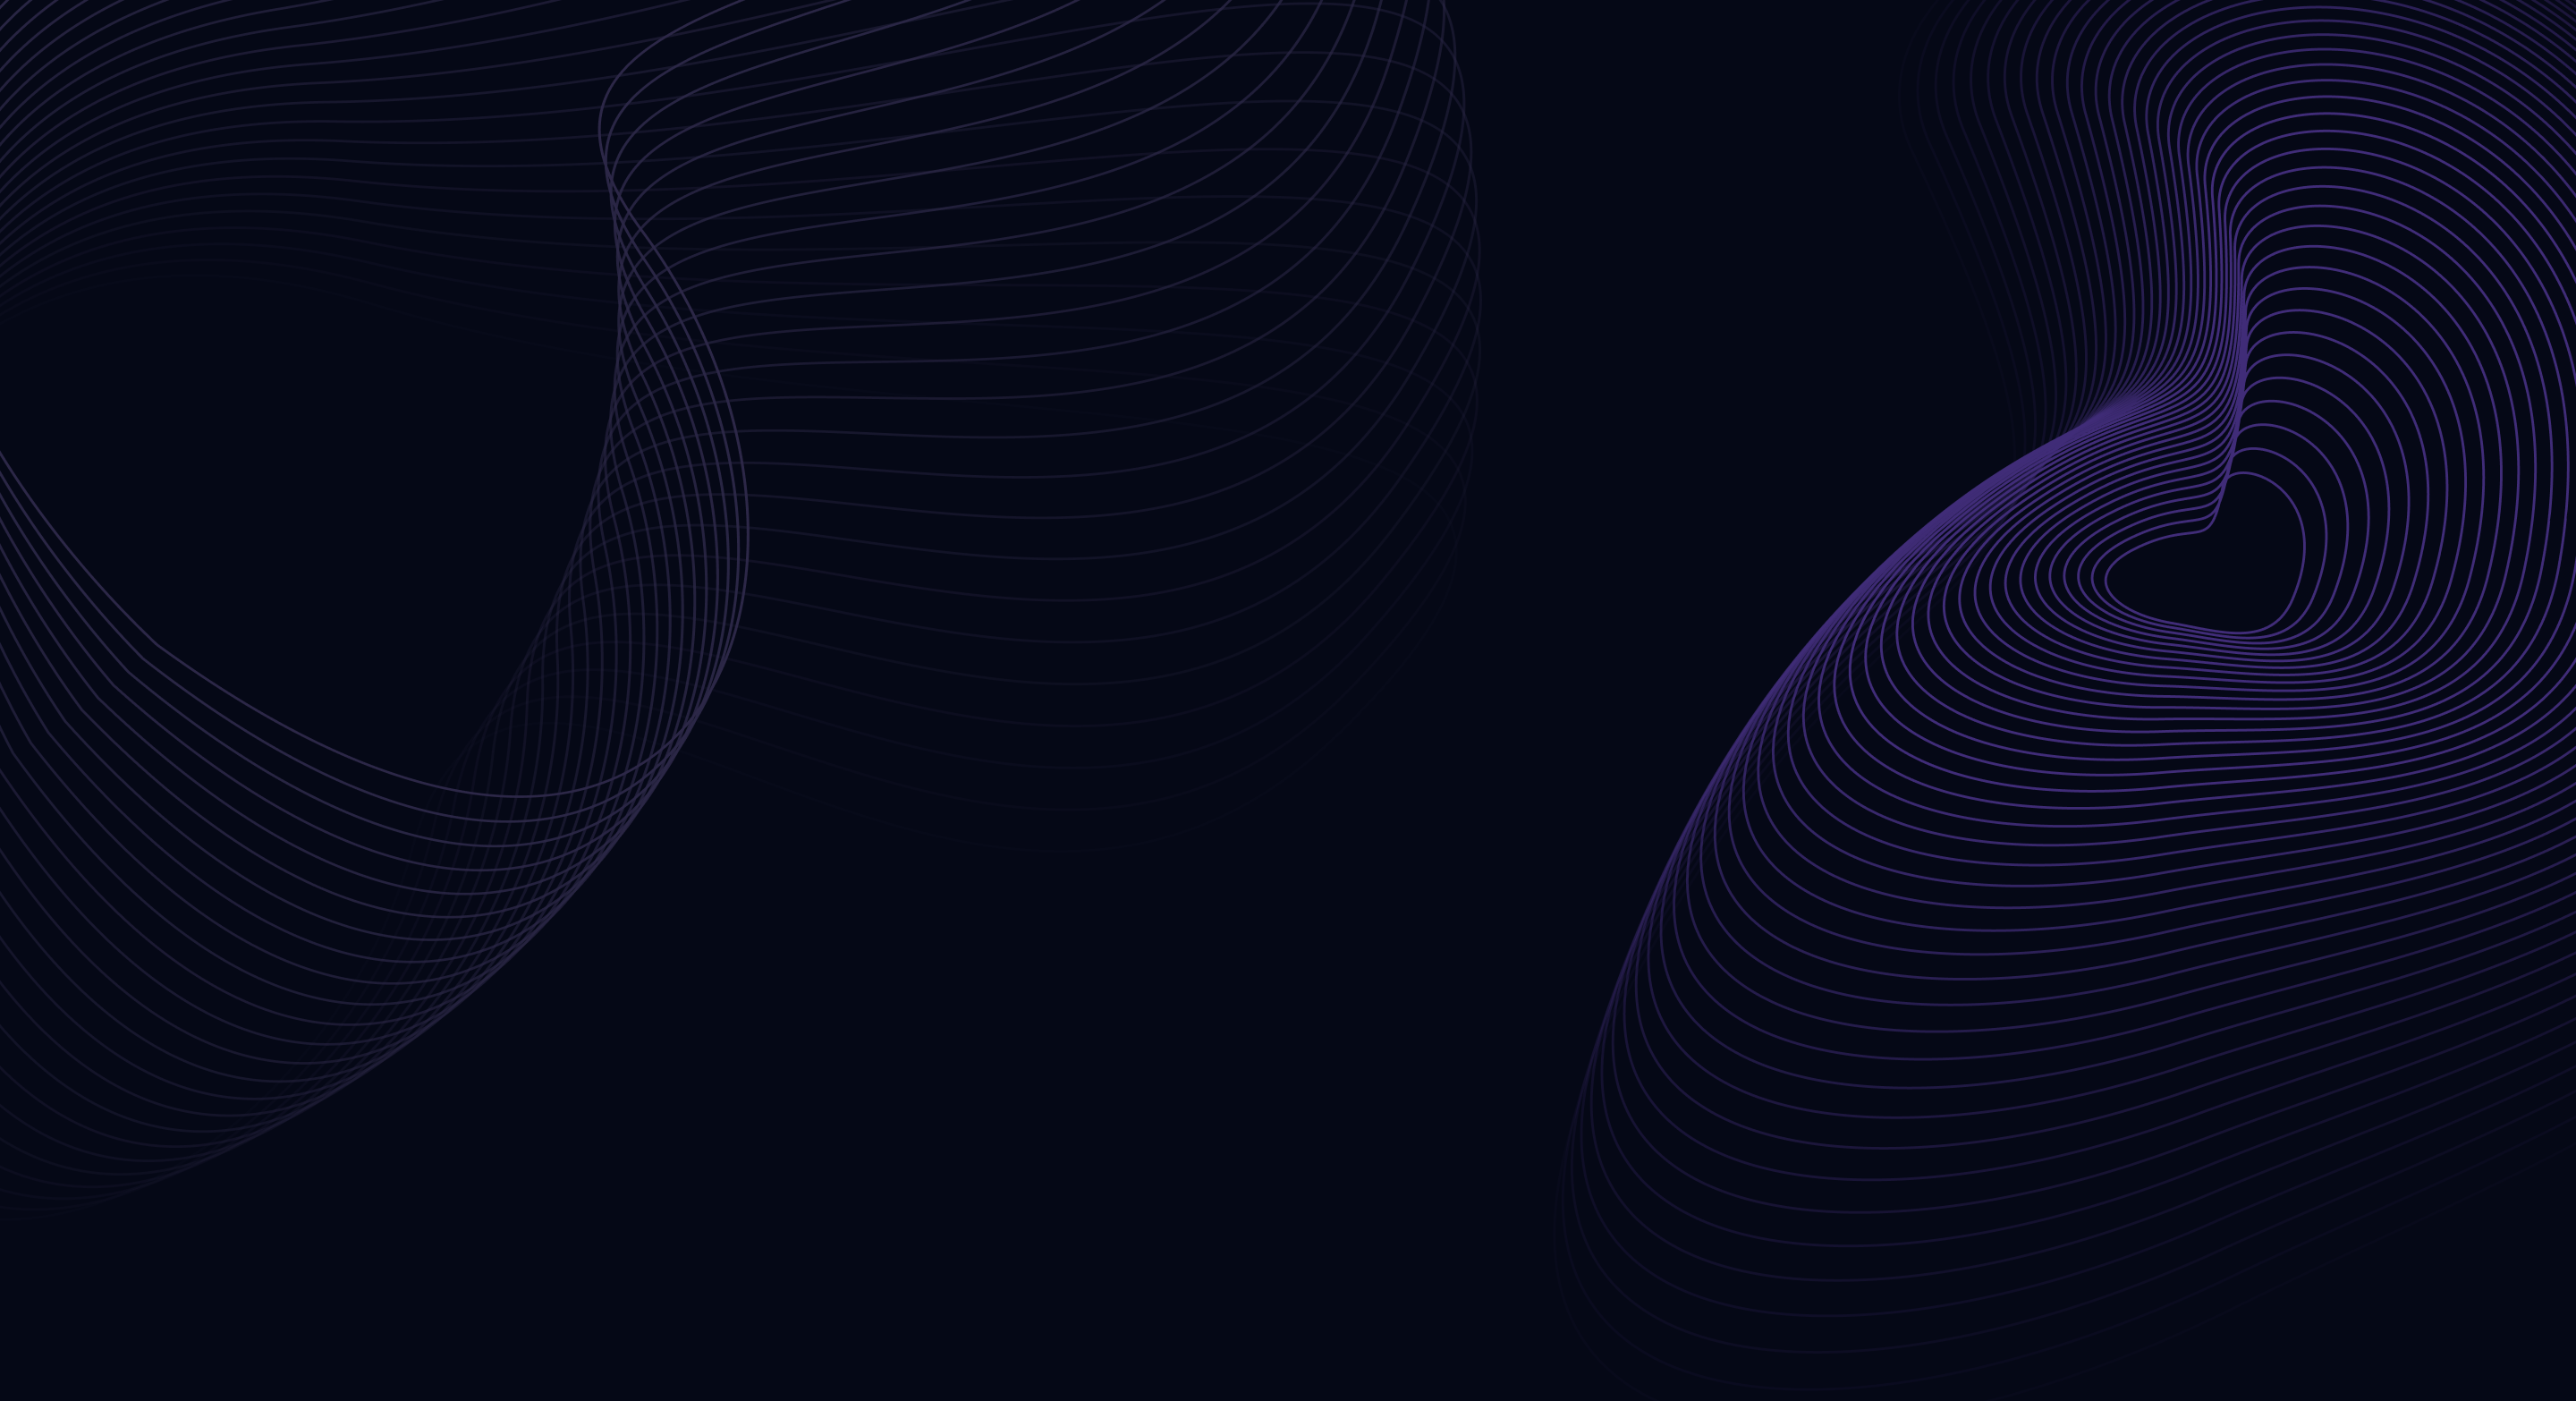
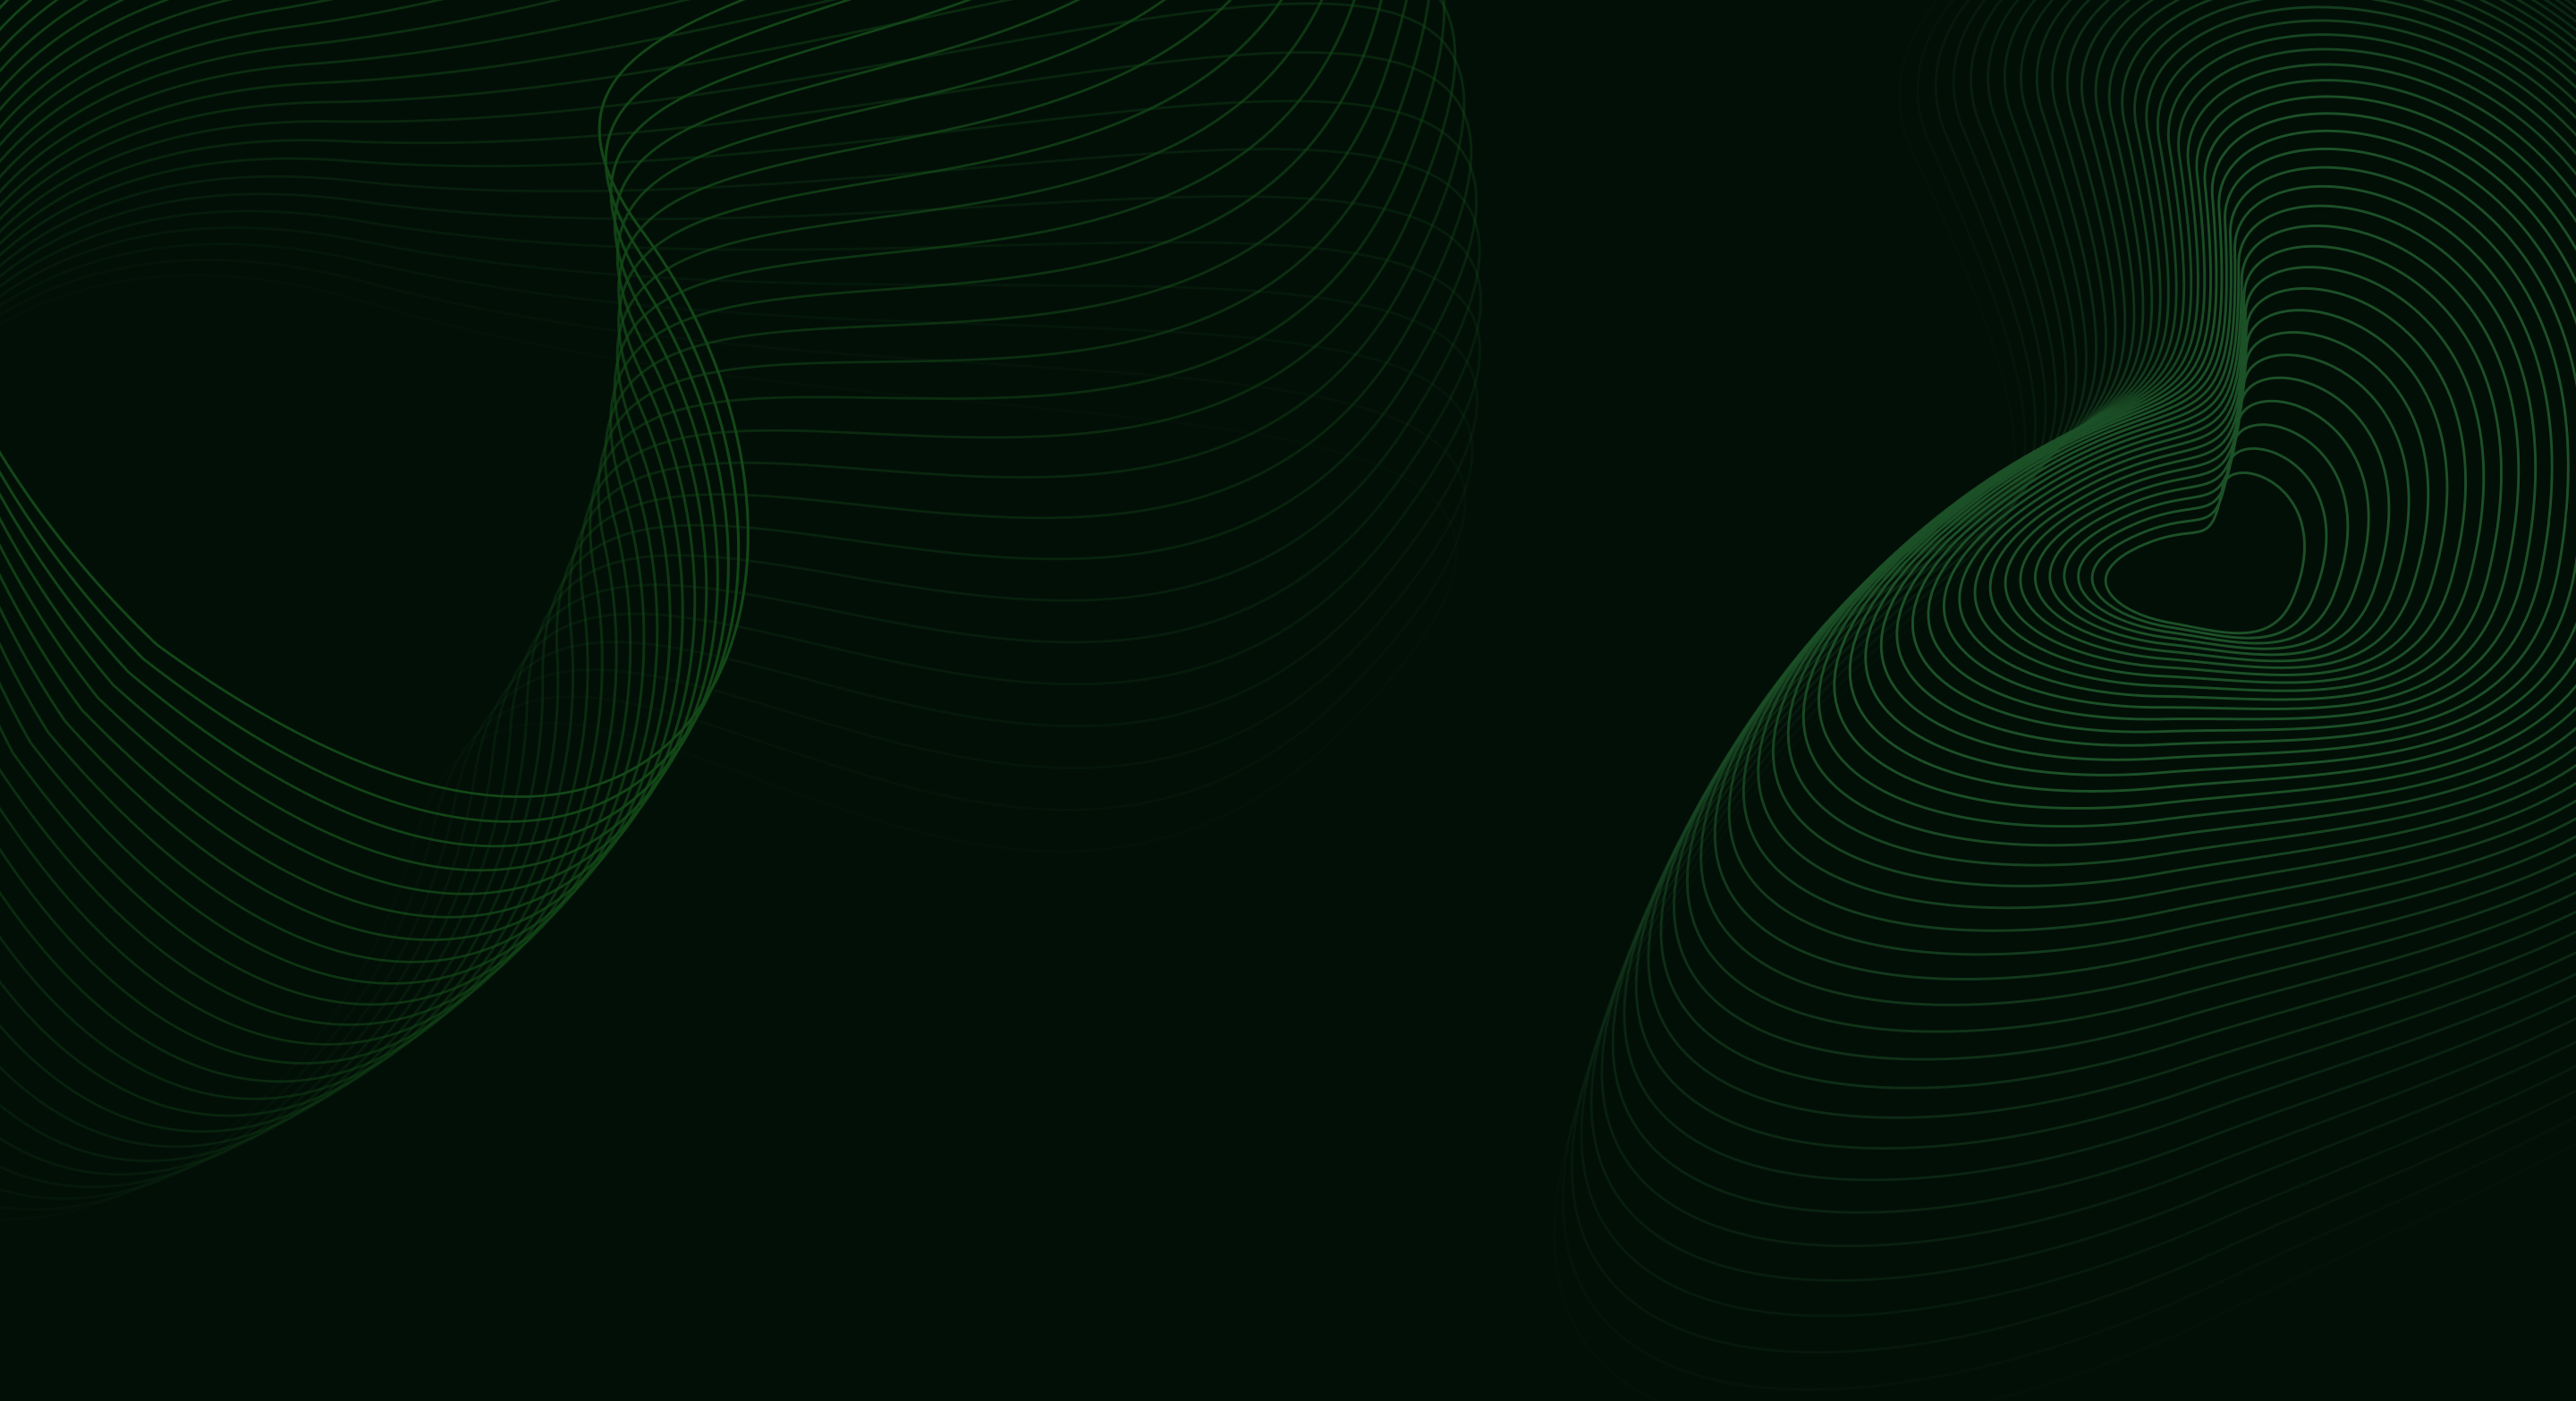
header/hero update

diff --git a/src/components/Hero.jsx b/src/components/Hero.jsx
@@ -15,18 +15,18 @@ const Hero = () => {
 
         <div>
           <h1 className={`${styles.heroHeadText} text-white`}>
-            Hi, I'm <span className="text-[#915EFF]">lohit</span>
+            Hi, Welcome to <span className="text-[#915EFF]">OrderFlow Creative</span>
           </h1>
           <p className={`${styles.heroSubText} mt-2 text-white-100`}>
-            I do
+            We provide
             <Typewriter
               options={{
-                strings: ["CyberSecurity", "Ai & ML", "NLP"],
+                strings: ["Video Editing", "Growth & Profit", "Precision & Strategy", "Fast & Impactful"],
                 autoStart: true,
                 loop: true,
                 loopCount: Infinity,
                 deleteSpeed: "natural",
-                pauseFor: 1000,
+                pauseFor: 500,
               }}
             />
           </p>